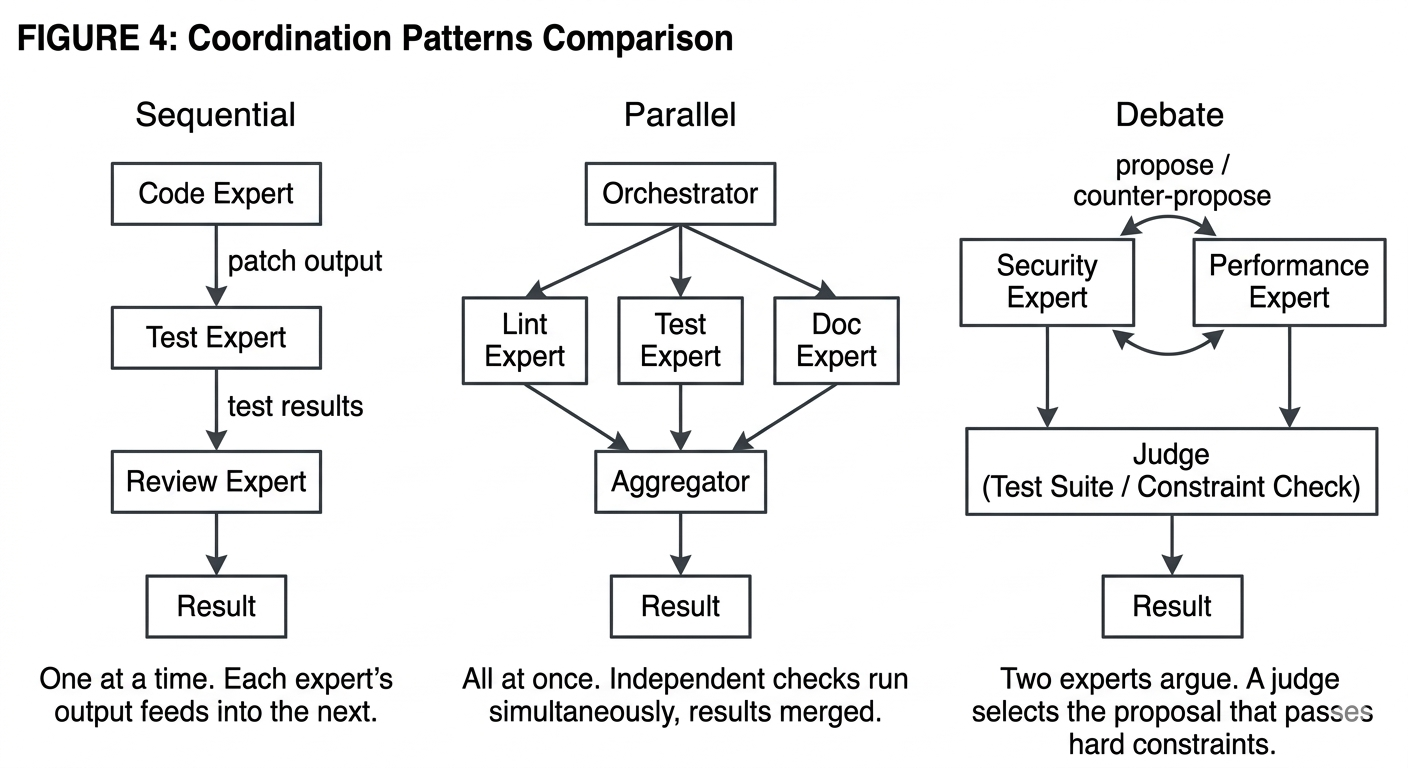
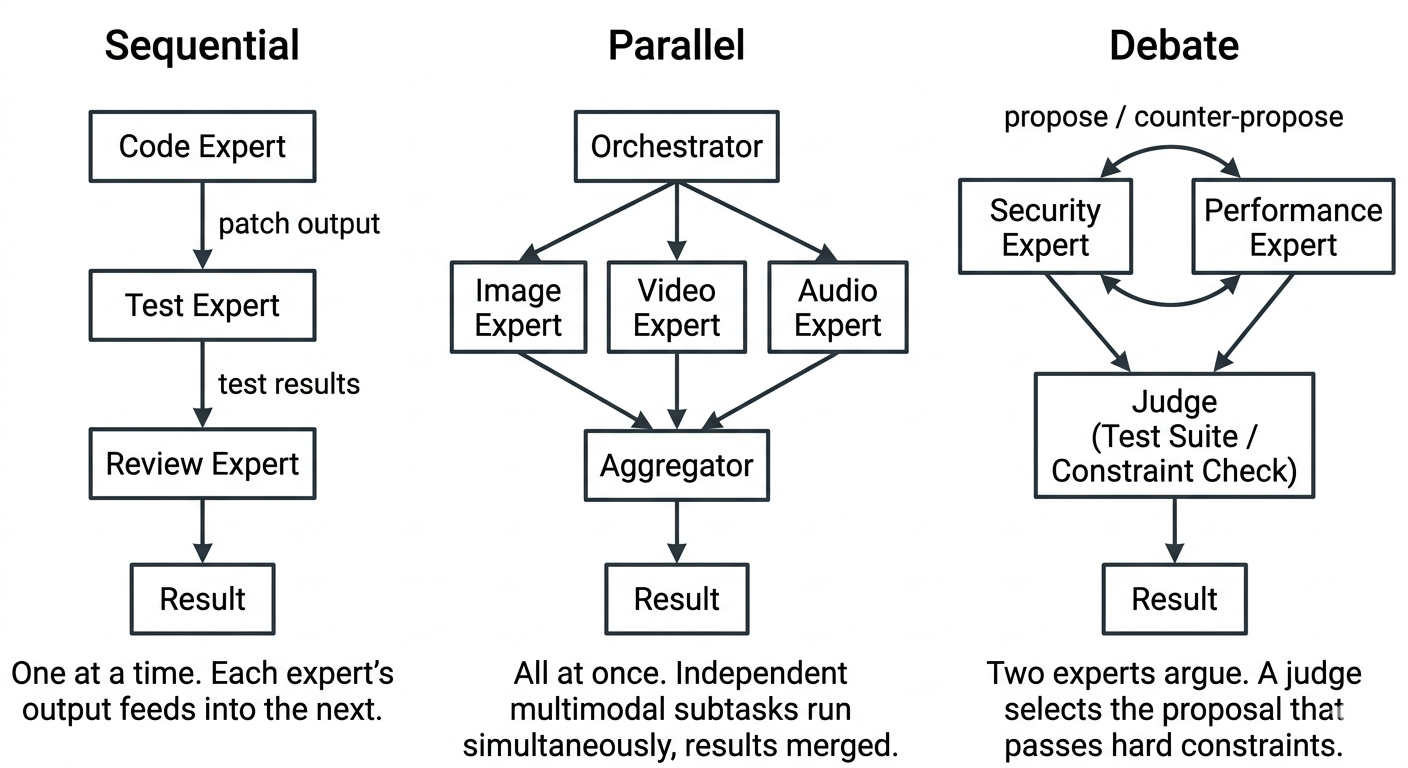
v4

diff --git a/README.md b/README.md
@@ -6,7 +6,6 @@
 
 My current understanding is that MoFA is structured as a microkernel-based Rust framework with a clear separation between layers.
 
-
 ![Figure 1: MoFA Layered Architecture Overview](figures/fig01-mofa-layered-architecture.png)
 
 *Figure 1: How MoFA is organized into layers. The Swarm Orchestrator will span kernel, foundation, and runtime, with public APIs surfaced through the SDK.*
@@ -22,7 +21,7 @@ Idea 5 describes the Cognitive Swarm Orchestrator as the brain of this ecosystem
 
 It connects with:
 
-- **Gateway** for capability access to tools, devices, and external APIs.
+- **Gateway** for capability access to tools, devices, and external APIs. In current MoFA this is already a major platform layer, including routing, rate control, observability hooks, and distributed control-plane concerns. Gateway is not a small add-on; it is a large-scale subsystem that the orchestrator treats as a first-class integration surface for reaching any external capability an agent might need.
 - **Smith / Observatory** for traces, metrics, and evaluation of swarm runs.
 - **SDK** for polyglot users to call into orchestrated swarms from other languages.
 
@@ -38,7 +37,7 @@ The idea text lists several named components that I plan to follow closely:
 - `HITLGovernor` for the human-in-the-loop lifecycle, including escalation.
 - A `GovernanceLayer` for SLAs, audits, and notifications.
 - A plugin marketplace core with dependency resolution and trust scoring.
-- A semantic agent discovery system built on an agent capability registry.
+- A semantic agent discovery system built on an agent capability registry, plus semantic agent generation when no suitable prebuilt agent exists.
 
 My plan is to put the core orchestration traits and types in the kernel where that makes sense, and to implement the main orchestrator logic and integration glue in foundation and runtime, so the Swarm Orchestrator fits naturally into the framework instead of sitting off to the side.
 
@@ -54,18 +53,17 @@ I will build the project in several phases that line up with the idea descriptio
 
 The goal here is to set up the minimal orchestrator core that can understand tasks and form teams of expert models.
 
-
 ![Figure 3: Task Decomposition and Agent Matching Flow](figures/fig03-task-decomposition-flow.png)
 
 *Figure 3: How a high-level task flows through TaskAnalyzer (decomposition into a DAG of subtasks with dependencies) and SwarmComposer (matching each subtask to the best expert model via capability lookup). This is the first step before any coordination pattern is applied.*
 
-Notice that in Figure 3, each subtask gets its own expert model. The Code Expert writes the patch, the Test Expert writes verification, and the Security Expert reviews for safety. This is the core value of the swarm approach: each model does what it is best at, instead of asking one general model to do everything.
+Notice that in Figure 3, each subtask gets its own expert model. The Code Expert writes the patch, the Test Expert writes verification, and the Security Expert reviews for safety. This is the core value of the swarm approach: each model does what it is best at, instead of asking one general model to do everything. We are using different models for what they are known to be best at.
 
 What I plan to do:
 
 - Define core orchestration types and traits like `TaskDescriptor`, `Subtask`, `SwarmPlan`, and `CoordinationPattern` in the right layer, most likely in a new `mofa-orchestrator` crate under the `mofa` repo. I will reuse existing kernel types wherever I can.
 - Build `TaskAnalyzer` as a component that takes a high-level task description (plus optional structured hints) and produces a DAG of subtasks with dependencies and rough difficulty ratings. For the first version, this can use a simple LLM prompt strategy and some basic rule-based checks, with the design leaving room for more advanced analyzers later.
-- Build `SwarmComposer` to map subtasks to agent roles and individual agents using an agent capability registry. The first version can use a straightforward matching strategy, like tagging agents with capabilities and using a basic scoring function, but the API should allow plugging in smarter matching later. Importantly, SwarmComposer also annotates each subtask with a recommended coordination pattern (see Phase 2 and Figure 6 for how patterns are combined).
+- Build `SwarmComposer` to map subtasks to agent roles and individual agents using an agent capability registry. The first version can use a straightforward matching strategy, like tagging agents with capabilities and using a basic scoring function, but the API should allow plugging in smarter matching later. Importantly, SwarmComposer also annotates each subtask with a recommended coordination pattern (see Phase 2 and Figure 5 for how patterns are combined).
 - Build a minimal in-memory representation and serialization format for swarm plans, so they can be logged, inspected, and passed to later components.
 
 From a MoFA perspective, this phase is mainly about designing the orchestrator API so it integrates cleanly with existing agent metadata and capability representations, and making the core components testable on their own with artificial agent definitions.
@@ -78,25 +76,55 @@ The goal is to support multiple collaboration modes, prove that multi-expert coo
 
 ###### Individual Patterns
 
+
 ![Figure 4: Coordination Patterns Comparison](figures/fig04-coordination-patterns.png)
 
-*Figure 4: Three coordination patterns the orchestrator can use. Sequential and Parallel are the MVP targets. Debate is also implemented with mocked experts to validate the multi-expert value proposition. Each pattern uses specialized expert models, not generic ones.*
+*Figure 4: Three coordination patterns the orchestrator can use. Sequential chains experts one after another. Parallel fans out independent multimodal subtasks (image, video, audio) simultaneously. Debate pits two experts against each other and resolves with a judge. Each pattern uses specialized expert models chosen for what they are best at.*
 
-Figure 4 shows each pattern in isolation. But in practice, the orchestrator does not pick just one pattern for the entire task. Different parts of the same task DAG call for different patterns. The next figure shows how they combine.
+Figure 4 shows each pattern in isolation. But in practice, the orchestrator does not pick just one pattern for the entire task. Different parts of the same task DAG call for different patterns. The next figure shows how they combine. Before that, the orchestrator first decides which mode the overall task needs.
+
+###### Dynamic Runtime Routing Before Pattern Selection
+
+Before pattern selection, the orchestrator applies a mode-routing policy. The big picture is that the whole process is dynamic. Not every task needs the same level of orchestration:
+
+- **Simple mode**: direct low-risk tasks with clear intent. Example: "What is the weather in New York?" This simply requires one expert model, direct execution, and a direct answer. No DAG, no debate.
+- **Complex mode**: multi-step tasks requiring DAG decomposition and mixed patterns. Example: "Fix a security bug, add tests, and ship a PR." This needs multiple expert models coordinated across sequential, parallel, and potentially debate stages.
+- **Debate mode (extra thinking)**: ambiguous or high-impact tasks where multiple expert views reduce blind spots. This is selective. It activates only when the uncertainty or stakes justify the overhead.
+
+If the user already provides a detailed spec document with clear constraints and acceptance criteria, Debate can be skipped entirely. The spec itself serves as the "extra thinking" there is nothing ambiguous left to debate, so execution proceeds directly through deterministic checks.
+
+![Figure 4A: Dynamic Mode Routing Policy](figures/fig4A-dynamic-mode-routing-policy.png)
+
+*Figure 4A: Runtime policy for routing tasks into Simple, Complex, or Debate mode. Simple tasks get one expert and direct execution. Complex tasks get full DAG orchestration. Debate activates only when uncertainty justifies extra thinking, and can be skipped entirely when a detailed spec already provides clear constraints.*
 
 ###### The Bigger Picture: Combining Patterns on a Task DAG
 
 ![Figure 5: Combined Patterns on a Task DAG](figures/fig05-combined-patterns-dag.png)
 
-*Figure 5: The bigger picture. A single task DAG uses Sequential for dependent subtasks, Parallel for independent checks, and Debate for high-risk decisions. The orchestrator picks the right pattern for each section of the DAG, not one pattern for the whole task. If confidence is low after Debate, HITLGovernor takes over.*
+*Figure 5: The bigger picture. A single task DAG uses Sequential for dependent subtasks, Parallel for independent multimodal work (image, video, audio running simultaneously), and Debate for high-risk decisions. The orchestrator picks the right pattern for each section of the DAG, not one pattern for the whole task. If confidence is low after Debate, HITLGovernor takes over.*
 
 This is the core architecture of the coordination engine. The orchestrator reads the task DAG (produced by TaskAnalyzer in Phase 1), looks at each section, and decides:
 
 - **Sequential** when subtasks depend on each other. You cannot write tests before the patch exists.
-- **Parallel** when subtasks are independent. Lint checks, unit tests, and doc checks can all run at the same time.
+- **Parallel** when subtasks are independent. Image analysis, video analysis, and audio analysis can all run at the same time because they do not depend on each other's output.
 - **Debate** when the decision is high-impact or uncertain, and two different expert perspectives can catch different failure modes. This is where the real value of multi-expert swarms shows up.
 
 Notice how Figure 5 connects back to Figure 3. The TaskAnalyzer produces the DAG, SwarmComposer assigns expert models and pattern hints, and then the coordination engine executes the plan using the right pattern for each section.
+
+###### Council-Style Debate Design
+
+The Debate pattern is implemented as a council-style mechanism inspired by modern multi-model systems. Think of it like the council mode in advanced AI platforms where multiple top-tier models (like GPT, Claude, and Gemini) are sent the same prompt simultaneously, each bringing its own strengths and blind spots. The system deliberately creates useful disagreement:
+
+1. **Parallel proposal generation** from diverse expert models. Each model is selected specifically because it has different strengths, ensuring a wide range of perspectives.
+2. **Optional cross-examination** where experts critique each other's reasoning to find flaws or missing data points.
+3. **Judge synthesis** using hard checks and evidence scoring, not rhetorical confidence. The judge does not pick whichever answer sounds best. It runs constraint checks and evaluates evidence.
+4. **Confidence gate** deciding accept, revise, or escalate to HITL.
+
+You can think of Debate as "extra thinking." It is not a default step for every request. It is activated when uncertainty and impact justify the overhead of running multiple expert models in parallel.
+
+![Figure 5A: Council-Style Debate Pipeline](figures/fig5A-council-debate-pipeline.png)
+
+*Figure 5A: Council-style debate as structured extra thinking. Multiple expert models reason in parallel (each selected for different strengths), optionally cross-examine each other, then a judge synthesizes using evidence and constraints, not rhetorical confidence. If confidence is high, the plan executes. If not, it escalates to a human.*
 
 ###### Why Debate Adds Value (and how we will prove it)
 
@@ -132,7 +160,6 @@ Each test below maps to the "Security Expert, Performance Expert, Judge" flow fr
 
 **Test 1: `debate_selects_patch_that_passes_unit_tests`**
 
-
 ![Figure 6: Debate Test 1](figures/fig06-debate-test1-patch-selection.png)
 
 *Figure 6: Debate Test 1. Agent A proposes a correct but slower fix. Agent B proposes a fast but broken fix. The Judge runs the test suite and selects Patch A because it passes all tests. The audit trail records the rationale.*
@@ -151,6 +178,7 @@ Expected:
 
 **Test 2: `debate_resolves_safety_vs_performance_tradeoff`**
 
+
 ![Figure 7: Debate Test 2](figures/fig07-debate-test2-constraint-resolution.png)
 
 *Figure 7: Debate Test 2. Agent A respects the rate limit. Agent B violates it. The Judge checks both hard constraints and selects Agent A. If neither had passed, the system escalates to HITLGovernor instead of silently picking a risky option.*
@@ -163,7 +191,7 @@ Setup:
 
 Expected:
 - Judge selects Agent A because it satisfies all hard constraints.
-- If neither proposal satisfies all constraints, Judge triggers escalation to HITLGovernor (Figure 9), because we should not silently pick a risky option.
+- If neither proposal satisfies all constraints, Judge triggers escalation to HITLGovernor (Figure 10), because we should not silently pick a risky option.
 
 ---
 
@@ -222,6 +250,7 @@ If Debate improves success rate without unacceptable overhead, we have a defensi
 - Implement `HITLGovernor` following the five-phase secretary model from the idea text, with clear state transitions for Receive, Clarify, Schedule, Monitor, and Report.
 - Connect coordination patterns with HITL, so patterns know when a decision needs human approval, and HITLGovernor knows what context to assemble and how to pause and resume execution. This includes the escalation path from Debate (Test 3, Figure 8) and the action safety path (covered in detail after Figure 15).
 
+
 ![Figure 10: HITLGovernor State Machine](figures/fig10-hitl-governor-state-machine.png)
 
 *Figure 10: The five-phase lifecycle of HITLGovernor. Notice the two entry points: one from Debate (when evidence is weak, as in Test 3 / Figure 8) and one from Action Safety (when a risky action is detected, covered in Figure 15). Tasks can loop back to Clarify if more info is needed, or escalate if the SLA timeout is hit.*
@@ -259,7 +288,7 @@ What I plan to do:
 
 - Implement the core governance objects and make sure they capture all the decision points from Figures 4, 5, 6, 7, 8, and 10, including Debate outcomes, HITL approvals, and action safety decisions.
 - Implement multi-channel notification adapters. At first, the focus is on defining the interface and providing one or two simple adapters (webhook and console/log) that others can extend.
-- Integrate with MoFA Gateway by using capability APIs instead of hardcoding protocol details inside orchestrator components.
+- Integrate with MoFA Gateway by using capability APIs instead of hardcoding protocol details inside orchestrator components. The proposal treats Gateway as a major platform capability and aligns with its current larger scope in `mofa-main`.
 - Integrate with MoFA Smith or Observatory by emitting the structured AuditEvent and DecisionRecord data as traces and metrics for swarm runs.
 
 ---
@@ -301,6 +330,25 @@ What I plan to do:
 
 Given the time available, this phase will prioritize a correct and extensible core over a feature-complete marketplace.
 
+###### Semantic Agent Generation: What If the Agent Does Not Exist Yet?
+
+Some agents will be hardcoded and pre-written standard experts that cover common tasks like code generation, testing, and security review. But what happens when the orchestrator needs a specialist for a specific subtask and no suitable prebuilt agent exists in the registry?
+
+Instead of failing or falling back to a generic model, the system can generate a scaffolded specialist agent on the fly. This is Semantic Agent Generation , the complement to Semantic Agent Discovery. Discovery is always first. Generation is the controlled fallback.
+
+The flow works like this:
+
+- Try semantic discovery first against registered capabilities.
+- If no candidate meets the quality threshold, generate a scaffolded specialist agent template tailored to the subtask requirements.
+- Run validation checks for interface compatibility, policy safety, and baseline task quality before the generated agent is allowed to participate.
+- Register the generated agent with explicit trust flags (like `generated=true`, `validation_passed=true`) so it is transparent and auditable. It does not silently blend in with pre-written agents.
+
+This keeps orchestration robust even when the registry is incomplete, while maintaining full transparency about what is pre-built and what was generated.
+
+![Figure 12A: Semantic Discovery to Agent Generation Fallback](figures/fig12A-discovery-generation-fallback.png)
+
+*Figure 12A: Discovery-first orchestration with controlled generation fallback. When no suitable prebuilt agent exists in the registry, the system generates a scaffolded specialist, validates it against interface, safety, and quality checks, then registers it with explicit trust flags before allowing it to participate. The audit trail always records whether an agent was pre-built or generated.*
+
 ---
 
 ### End-to-End Orchestration Flow
@@ -309,7 +357,7 @@ To tie all the phases together, here is how a complete task flows through the sy
 
 ![Figure 13: End-to-End Orchestration Flow](figures/fig13-end-to-end-flow.png)
 
-*Figure 13: The full lifecycle of a task, from submission through decomposition, expert matching, action safety check, optional human approval, coordinated execution with combined patterns, and result delivery. Each step references the figure where that component is described in detail.*
+*Figure 13: The full lifecycle of a task, from submission through decomposition, expert matching (with generation fallback), action safety check, optional human approval, coordinated execution with combined patterns, and result delivery. Each step references the figure where that component is described in detail.*
 
 ---
 
@@ -329,11 +377,13 @@ On Linux and Unix systems, every file and directory has permissions that control
 
 The orchestrator needs to understand these distinctions to make good decisions about when to ask for human approval.
 
+
 ![Figure 14: Linux Permission Risk Zones](figures/fig14-linux-permission-risk-zones.png)
 
 *Figure 14: Where actions happen on the filesystem determines their risk level. System paths like /etc and /usr/bin always require human approval. Workspace paths are usually safe. Users can add custom rules for paths like production/.*
 
 #### The Action Safety Classification Policy
+
 
 ![Figure 15: Action Safety Decision Tree](figures/fig15-action-safety-classification.png)
 
@@ -391,7 +441,6 @@ Expected:
 
 **Test 6: `require_approval_for_delete`**
 
-
 ![Figure 18: Action Safety Test 6](figures/fig18-action-test6-delete-approval.png)
 
 *Figure 18: Test 6. Deleting a data directory is destructive. The system pauses, sends context to a human, and waits for a decision before proceeding.*
@@ -441,7 +490,6 @@ Expected:
 ---
 
 **Test 9: `user_configured_rule_overrides_default`**
-
 
 ![Figure 21: Action Safety Test 9](figures/fig21-action-test9-user-rule-override.png)
 
